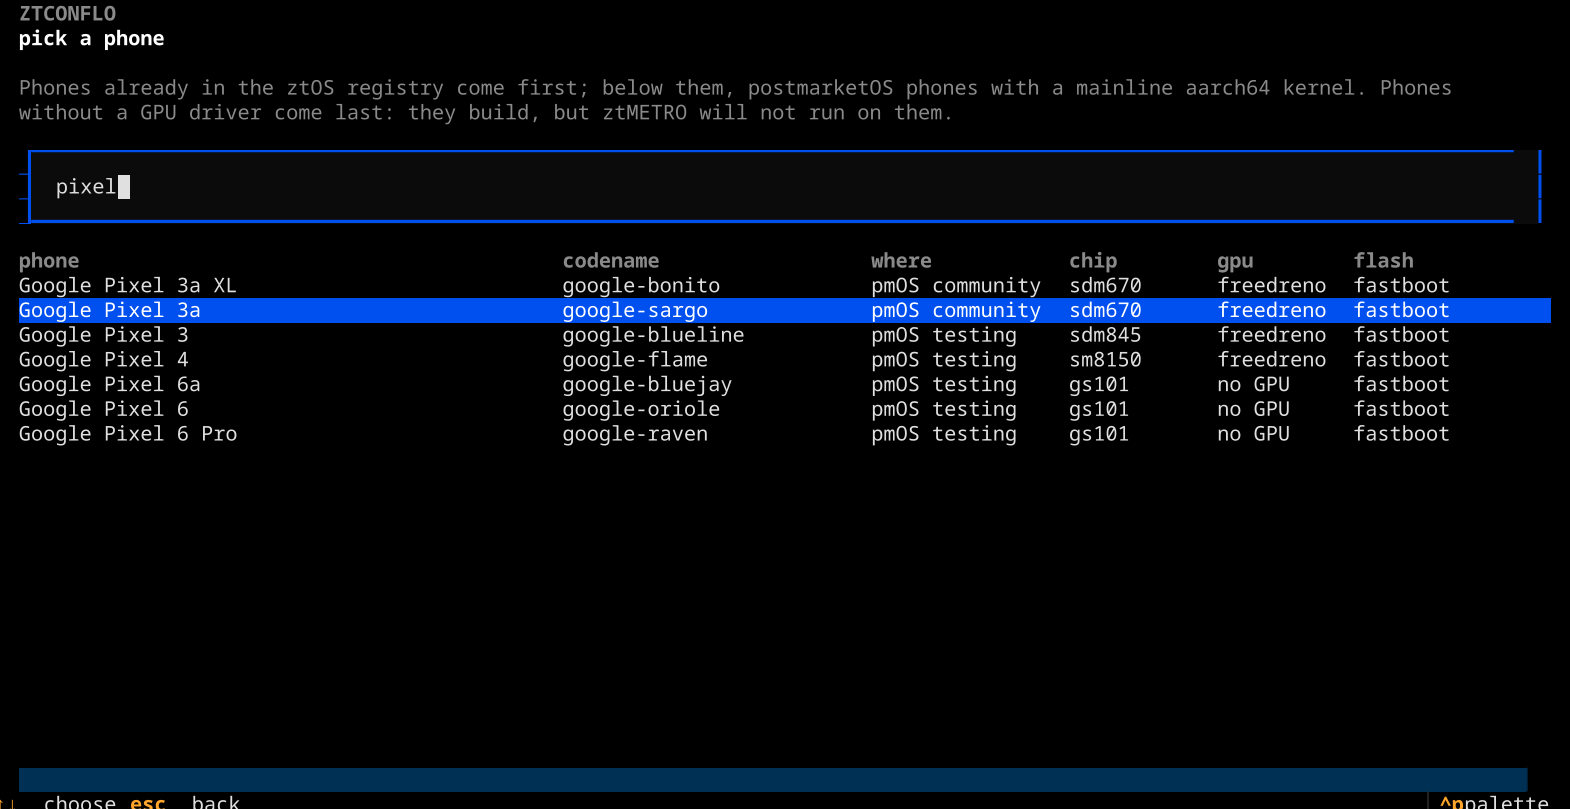
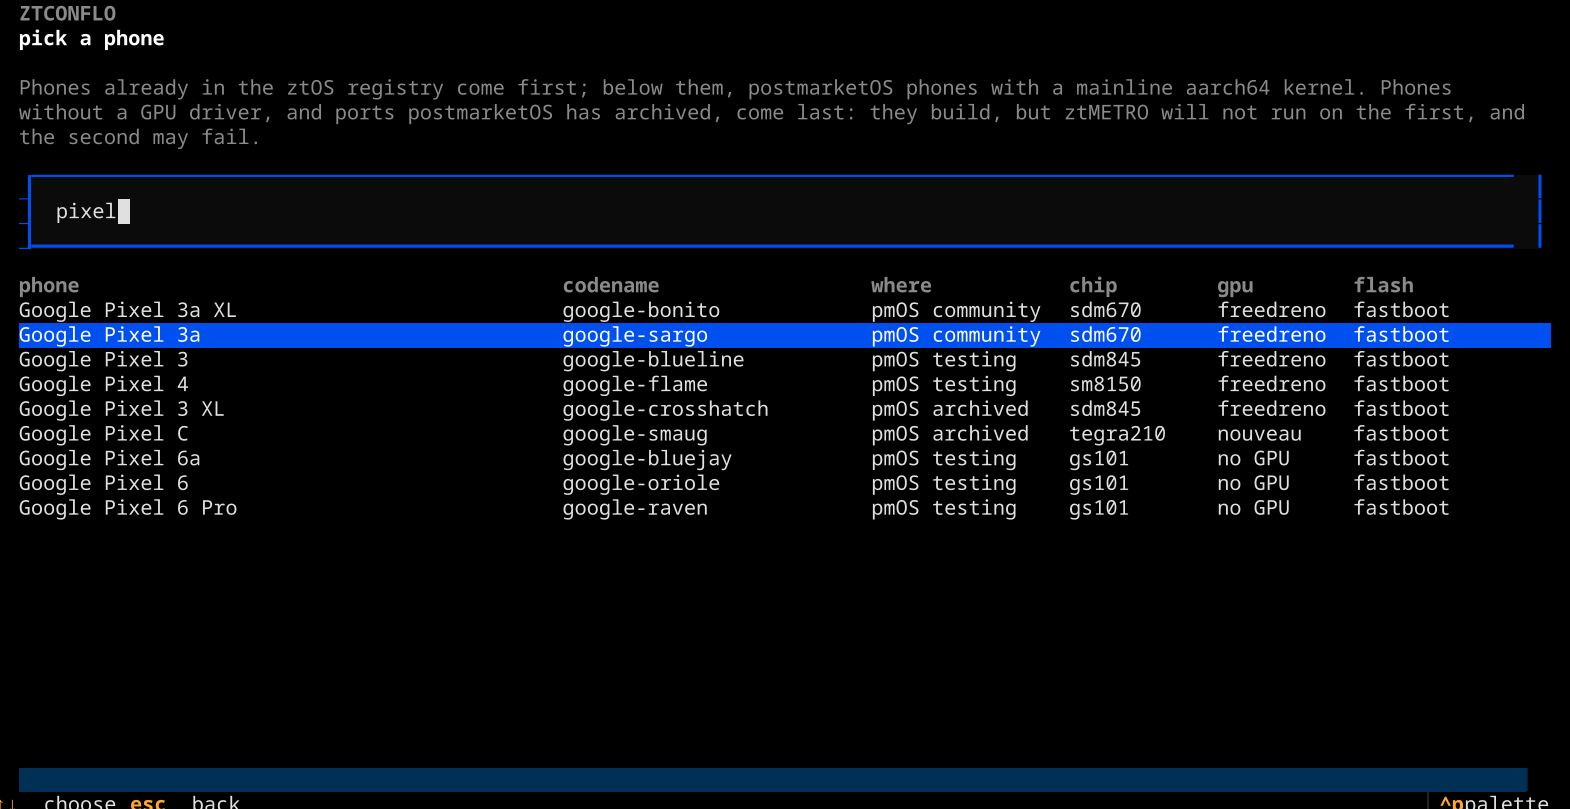
List archived phones that still run a mainline kernel, with a warning
A port postmarketOS has archived is no longer a dead end by itself: if its
kernel is mainline it is eligible, listed after the maintained phones, and
every place that warns about a missing GPU driver (lookup, candidates,
build, flash, the TUI) now also says the port is no longer maintained.
Archived phones with a vendor kernel, such as the Exynos Galaxy S9, are
still rejected. 135 phones are eligible instead of 64. Wiki, README
and screenshots updated.

diff --git a/docs/index.html b/docs/index.html
@@ -241,6 +241,7 @@
         <ul class="sub-nav">
           <li><a href="#eligibility">Eligibility</a></li>
           <li><a href="#gpu">GPU acceleration</a></li>
+          <li><a href="#archived">Archived ports</a></li>
         </ul>
       </li>
       <li><a href="#registry">The device registry</a></li>
@@ -305,8 +306,9 @@ oneplus-enchilada: OnePlus 6
           <figure class="wide"><a href="img/welcome.png"><img src="img/welcome.png" width="1570" height="809" alt="The welcome screen checks the computer for everything a build needs." loading="lazy"></a><figcaption>The welcome screen checks the computer for everything a build needs.</figcaption></figure>
           <figure class=""><a href="img/phones.png"><img src="img/phones.png" width="1570" height="809" alt="Picking a phone: type to filter, arrow keys to choose, enter to open." loading="lazy"></a><figcaption>Picking a phone: type to filter, arrow keys to choose, enter to open.</figcaption></figure>
           <figure class=""><a href="img/phone.png"><img src="img/phone.png" width="1570" height="809" alt="A phone's page, with dry run, build, flash and the checklist." loading="lazy"></a><figcaption>A phone's page, with dry run, build, flash and the checklist.</figcaption></figure>
-          <figure class=""><a href="img/dryrun.png"><img src="img/dryrun.png" width="1570" height="809" alt="A dry run: every step ticked off, and every command it would run." loading="lazy"></a><figcaption>A dry run: every step ticked off, and every command it would run.</figcaption></figure>
           <figure class=""><a href="img/nogpu.png"><img src="img/nogpu.png" width="1570" height="809" alt="Building a phone without a GPU driver asks first." loading="lazy"></a><figcaption>Building a phone without a GPU driver asks first.</figcaption></figure>
+          <figure class=""><a href="img/archived.png"><img src="img/archived.png" width="1570" height="809" alt="An archived port, the Redmi Note 4X, found by typing "note 4": it builds, but warns first." loading="lazy"></a><figcaption>An archived port, the Redmi Note 4X, found by typing "note 4": it builds, but warns first.</figcaption></figure>
+          <figure class="wide"><a href="img/dryrun.png"><img src="img/dryrun.png" width="1570" height="809" alt="A dry run: every step ticked off, and every command it would run." loading="lazy"></a><figcaption>A dry run: every step ticked off, and every command it would run.</figcaption></figure>
         </div>
       </div>
     </div>
@@ -433,13 +435,13 @@ ztconflo build oneplus-enchilada --dry-run  <span class="c"># every command, not
           <table>
             <thead><tr><th>Rule</th><th>Why</th></tr></thead>
             <tbody>
-              <tr><td>Category is <code>main</code>, <code>community</code> or <code>testing</code></td><td><code>downstream</code> ports use vendor kernels; <code>archived</code> ones are no longer maintained.</td></tr>
+              <tr><td>Category is <code>main</code>, <code>community</code>, <code>testing</code> or <code>archived</code></td><td><code>downstream</code> ports use vendor kernels, so they are rejected. <code>archived</code> ports are no longer maintained, but many still use a mainline kernel: they are eligible, with a warning.</td></tr>
               <tr><td>Architecture is <code>aarch64</code></td><td>32-bit <code>armv7</code> phones are out of scope for version 1.</td></tr>
               <tr><td>The kernel is mainline</td><td>A vendor kernel has no Mesa GPU driver, so ztMETRO can't draw on it.</td></tr>
             </tbody>
           </table>
         </div>
-        <p>Today's pmaports has 64 eligible phones and tablets that ztConflo can flash, led by Snapdragon phones such as the OnePlus 6 and 6T, the Pixel 3a, the Poco F1 and the Fairphone 4.</p>
+        <p>Today's pmaports has 135 eligible phones and tablets that ztConflo can flash. 64 are maintained by postmarketOS, led by Snapdragon phones such as the OnePlus 6 and 6T, the Pixel 3a, the Poco F1 and the Fairphone 4. The other 71 are archived ports, such as the Redmi Note 4X, the Mi A1 and the OnePlus 3 and 5.</p>
 
         <h3 id="gpu">GPU acceleration</h3>
         <p>ztMETRO draws everything with OpenGL ES, so it needs a GPU that Mesa drives. ztConflo reads the system on a chip from the device tree name and looks it up in a small table: freedreno for Qualcomm Adreno, panfrost and panthor for Mali, lima for older Mali, etnaviv for Vivante.</p>
@@ -448,7 +450,15 @@ ztconflo build oneplus-enchilada --dry-run  <span class="c"># every command, not
           <b>The warning</b>
           Unable to detect a Graphics Accelerator for the selected device, the Metro Shell will not start or work properly !
         </div>
-        <p>13 of the 64 eligible phones are in this group, the Pixel 6 among them.</p>
+        <p>20 of the 135 eligible phones are in this group, the Pixel 6 among them.</p>
+
+        <h3 id="archived">Archived ports</h3>
+        <p>postmarketOS archives a port when no one maintains or tests it any more. That says nothing about the kernel: 71 archived phones still use a mainline one, so ztConflo lists them last, builds them, and warns first, in the same places as the GPU warning:</p>
+        <div class="alert" role="note">
+          <b>The warning</b>
+          postmarketOS no longer maintains this phone's port: it is archived, so it may not build or boot, and it has had no recent testing.
+        </div>
+        <p>Archived phones with a vendor kernel, such as the Galaxy S9 (Exynos), are still rejected. That is where the <i>downstream kernel</i> rule bites. The Snapdragon S9, <code>samsung-starqltechn</code>, is a maintained port and is eligible.</p>
       </div>
     </div>
   </section>
@@ -569,7 +579,7 @@ rootfs_target = "userdata"</pre>
             <tbody>
               <tr><td class="num">0</td><td>Success</td></tr>
               <tr><td class="num">1</td><td>Not found in the registry or pmaports</td></tr>
-              <tr><td class="num">2</td><td>Found but not eligible: downstream kernel, archived port or 32-bit</td></tr>
+              <tr><td class="num">2</td><td>Found but not eligible: a downstream (vendor) kernel, a downstream port or a 32-bit phone</td></tr>
               <tr><td class="num">3</td><td>Build failed</td></tr>
               <tr><td class="num">4</td><td>Hash mismatch on a <code>tested</code> entry</td></tr>
               <tr><td class="num">5</td><td>Checklist failed during <code>promote</code></td></tr>

diff --git a/ztconflo/tui.py b/ztconflo/tui.py
@@ -19,7 +19,7 @@ from . import Exit
 from .config import PMAPORTS_URL, Settings
 from .pmos import Pmaports
 from .registry import Registry
-from .resolve import GPU_WARNING, candidates, resolve
+from .resolve import GPU_WARNING, candidates, entry_warnings, resolve
 from .runner import Runner
 
 WORDMARK = r"""
@@ -189,8 +189,8 @@ class Phones(Screen):
         yield Static("ZTCONFLO", classes="caps")
         yield Static("the registry" if self.registry_only else "pick a phone", classes="title")
         yield Static("Phones already in the ztOS registry come first; below them, postmarketOS phones with a "
-                     "mainline aarch64 kernel. Phones without a GPU driver come last: they build, but ztMETRO "
-                     "will not run on them." if not self.registry_only
+                     "mainline aarch64 kernel. Phones without a GPU driver, and ports postmarketOS has archived, "
+                     "come last: they build, but ztMETRO will not run on the first, and the second may fail." if not self.registry_only
                      else "Every phone ztOS knows, and how far it has got.", classes="lede")
         yield Input(placeholder="type to search: a name, a codename, a chip   ·   ↑↓ to choose   ·   enter to open", id="filter")
         yield LoadingIndicator()
@@ -216,7 +216,8 @@ class Phones(Screen):
             if not pm.exists():
                 self.app.call_from_thread(self.notify, "fetching pmaports, once (a minute or two)…")
                 pm.ensure(PMAPORTS_URL)
-            found = sorted(candidates(reg, pm), key=lambda dv: (not dv[1].accelerated, dv[0].category != "community"))
+            found = sorted(candidates(reg, pm), key=lambda dv: (not dv[1].accelerated, dv[1].unmaintained,
+                                                                  dv[0].category != "community"))
             for d, v in found:
                 if d.info.get("chassis") in ("handset", "tablet") and \
                         d.info.get("flash_method") in ("fastboot", "heimdall-bootimg", "heimdall-isorec"):
@@ -287,7 +288,7 @@ class Phone(Screen):
         super().__init__()
         self.codename = codename
         self.res = None
-        self.accelerated = True
+        self.warnings: list[str] = []
 
     def compose(self) -> ComposeResult:
         yield Static("ZTCONFLO", classes="caps")
@@ -315,7 +316,7 @@ class Phone(Screen):
         if self.res.source == "registry":
             e = self.res.entry
             self.query_one("#name", Static).update(e["device"]["name"].lower())
-            self.accelerated = bool(e.get("kernel", {}).get("gpu_driver", "x"))
+            self.warnings = entry_warnings(e)
             facts += [("from", "the ztOS registry"), ("status", e.status), ("origin", e.origin),
                       ("chip", f"{e['kernel'].get('soc', '?')} · Mesa {e['kernel'].get('gpu_driver', '?')}"),
                       ("kernel", e.get("source", {}).get("pmos", {}).get("kernel_pkg", "ztOS package")),
@@ -323,7 +324,7 @@ class Phone(Screen):
             verdict = "[#60a917 bold]in the registry: ready to build[/]"
         else:
             d, v = self.res.device, self.res.verdict
-            self.accelerated = v.accelerated
+            self.warnings = v.warnings
             self.query_one("#name", Static).update(d.info.get("name", d.codename).lower())
             facts += [("from", f"postmarketOS ({d.category})"), ("codename", d.codename),
                       ("chip", f"{v.soc or '?'} · " + (f"Mesa {v.driver}" if v.accelerated else "no GPU driver")),
@@ -335,8 +336,8 @@ class Phone(Screen):
             facts.append(("built", str(out)))
         self.query_one("#facts", Static).update(
             "\n".join(f"[#8a8a8a]{k:<12}[/]{v}" for k, v in facts))
-        if not self.accelerated:
-            verdict += f"\n\n[#e51400 bold]⚠ {GPU_WARNING}[/]"
+        for w in self.warnings:
+            verdict += f"\n\n[#e51400 bold]⚠ {w}[/]"
         self.query_one("#verdict", Static).update(verdict)
         self.query_one("#flash", Button).disabled = not (out / "flash.sh").is_file() or self.res.entry is None
         self.query_one("#promote", Button).disabled = self.res.entry is None
@@ -352,12 +353,14 @@ class Phone(Screen):
     def action_build(self, dry: bool) -> None:
         if self.res is None:
             return
-        if not dry and not self.accelerated:
+        if not dry and self.warnings:
             def anyway(yes: bool) -> None:
                 if yes:
                     self._start_build(dry)
-            self.app.push_screen(Ask(f"⚠ {GPU_WARNING}\n\nThe image still builds and installs, but the phone "
-                                     "will not reach ztMETRO.", yes="build anyway", no="cancel"), anyway)
+            closing = ("The image still builds and installs, but the phone will not reach ztMETRO."
+                       if GPU_WARNING in self.warnings else "You can still try: it may fail part way.")
+            self.app.push_screen(Ask("\n\n".join(f"⚠ {w}" for w in self.warnings) + "\n\n" + closing,
+                                     yes="build anyway", no="cancel"), anyway)
             return
         self._start_build(dry)
 
@@ -379,7 +382,7 @@ class Phone(Screen):
         if e is None:
             return
         lines = "\n".join(f"  {part:<16} ← {img}" for img, part in targets(e["boot"]))
-        warn = "" if e.get("kernel", {}).get("gpu_driver", "x") else f"⚠ {GPU_WARNING}\n\n"
+        warn = "".join(f"⚠ {w}\n\n" for w in entry_warnings(e))
         text = (f"{warn}Flash {e['device']['name']} with {e['boot']['flash_method']}?\n\n{lines}\n\n"
                 f"This erases everything on those partitions, including all data on "
                 f"{e['boot'].get('rootfs_target')}. Type the codename to go on.")

diff --git a/ztconflo/cli.py b/ztconflo/cli.py
@@ -9,7 +9,7 @@ from . import Exit, __version__
 from .config import PMAPORTS_URL, USB_HOST, Settings
 from .pmos import Pmaports
 from .registry import Registry
-from .resolve import GPU_WARNING, candidates, resolve
+from .resolve import candidates, entry_warnings, resolution_warnings, resolve
 from .runner import Runner
 
 
@@ -61,6 +61,8 @@ def cmd_lookup(args, s: Settings) -> int:
         print(f"  from:    ztOS registry ({e.path})")
         print(f"  status:  {e.status}   origin: {e.origin}")
         print(f"  flash:   {e['boot']['flash_method']} -> {e['boot'].get('rootfs_target')}")
+        for w in entry_warnings(e):
+            print(f"\n  WARNING: {w}")
         return 0
     d, v = res.device, res.verdict
     print(f"{d.codename}: {d.info.get('name', '?')}")
@@ -70,8 +72,8 @@ def cmd_lookup(args, s: Settings) -> int:
     print(f"  kernel:  {v.kernel_pkg} (mainline)")
     print(f"  flash:   {d.info.get('flash_method', '?')}")
     print("  eligible: yes")
-    if not v.accelerated:
-        print(f"\n  WARNING: {GPU_WARNING}")
+    for w in v.warnings:
+        print(f"\n  WARNING: {w}")
     return 0
 
 
@@ -91,13 +93,15 @@ def cmd_candidates(args, s: Settings) -> int:
     if not args.all:        # phones and tablets that ztConflo can flash
         found = [(d, v) for d, v in found if d.info.get("chassis") in ("handset", "tablet")
                  and d.info.get("flash_method") in ("fastboot", "heimdall-bootimg", "heimdall-isorec")]
-    for d, v in sorted(found, key=lambda x: (not x[1].accelerated, x[0].category != "community",
-                                             x[1].driver or "", x[0].codename)):
+    for d, v in sorted(found, key=lambda x: (not x[1].accelerated, x[1].unmaintained,
+                                             x[0].category != "community", x[1].driver or "", x[0].codename)):
         print(f"{d.codename:<34} {d.category:<10} {v.soc or '?':<12} {v.driver or 'NO GPU':<10} "
               f"{d.info.get('flash_method', '?'):<17} {d.info.get('name', '')}")
     unaccelerated = sum(not v.accelerated for _, v in found)
+    archived = sum(v.unmaintained for _, v in found)
     print(f"{len(found)} eligible phones without a registry entry"
-          + (f"; {unaccelerated} without a GPU driver (ztMETRO will not run on those)" if unaccelerated else ""),
+          + (f"; {unaccelerated} without a GPU driver (ztMETRO will not run on those)" if unaccelerated else "")
+          + (f"; {archived} archived by postmarketOS (no longer maintained)" if archived else ""),
           file=sys.stderr)
     return 0
 
@@ -108,8 +112,8 @@ def cmd_build(args, s: Settings) -> int:
     if reg.find(args.codename) is None:
         _pmaports(s)
     res = resolve(args.codename, reg, Pmaports(s.pmaports))
-    if not _accelerated(res):
-        print(f"WARNING: {GPU_WARNING}", file=sys.stderr)
+    for w in resolution_warnings(res):
+        print(f"WARNING: {w}", file=sys.stderr)
     out = build(res, s, reg, Runner(dry_run=s.dry_run))
     if s.dry_run:
         print("(dry run: nothing was built)")
@@ -119,12 +123,6 @@ def cmd_build(args, s: Settings) -> int:
             print(f"  {out / f}")
         print(f"flash with: ztconflo flash {args.codename}   (or read {out / 'flash.sh'})")
     return 0
-
-
-def _accelerated(res) -> bool:
-    if res.source == "registry":
-        return bool(res.entry.get("kernel", {}).get("gpu_driver", "x"))
-    return res.verdict.accelerated
 
 
 def _entry(codename: str, s: Settings):

diff --git a/ztconflo/resolve.py b/ztconflo/resolve.py
@@ -75,6 +75,8 @@ def gpu_driver(soc: str) -> tuple[bool, str | None]:
 
 GPU_WARNING = ("Unable to detect a Graphics Accelerator for the selected device, "
                "the Metro Shell will not start or work properly !")
+ARCHIVED_WARNING = ("postmarketOS no longer maintains this phone's port: it is archived, so it may not "
+                    "build or boot, and it has had no recent testing.")
 
 
 @dataclass
@@ -85,6 +87,11 @@ class Verdict:
     soc: str = ""
     driver: str | None = None
     kernel_pkg: str = ""
+    unmaintained: bool = False    # an archived port: eligible, with a warning
+
+    @property
+    def warnings(self) -> list[str]:
+        return [w for w, on in ((GPU_WARNING, not self.accelerated), (ARCHIVED_WARNING, self.unmaintained)) if on]
 
     @property
     def accelerated(self) -> bool:
@@ -95,8 +102,11 @@ class Verdict:
 
 def eligibility(dev: PmDevice, pmaports: Pmaports) -> Verdict:
     soc = soc_of(dev)
-    if dev.category not in ACCEPTED:
-        return Verdict(False, f"category '{dev.category}' is not main, community or testing", True, soc)
+    # downstream ports use vendor kernels; archived ones are no longer maintained
+    # but may still use a mainline kernel, so they go on to the kernel check
+    if dev.category not in ACCEPTED and dev.category != "archived":
+        return Verdict(False, f"category '{dev.category}' is not main, community, testing or archived", True, soc)
+    unmaintained = dev.category == "archived"
     if dev.arch != "aarch64":
         return Verdict(False, f"architecture '{dev.arch}' is not aarch64 (32-bit phones are out of scope for v1)",
                        True, soc)
@@ -111,7 +121,7 @@ def eligibility(dev: PmDevice, pmaports: Pmaports) -> Verdict:
         return Verdict(False, f"kernel {kernel} is a downstream (vendor) kernel", True, soc, kernel_pkg=kernel)
     # no GPU driver does not stop a build: the phone is flagged, and warned about
     known, driver = gpu_driver(soc)
-    return Verdict(True, "eligible", False, soc, driver, kernel)
+    return Verdict(True, "eligible", False, soc, driver, kernel, unmaintained)
 
 
 def _preferred_kernel(kernels: list[tuple[str, str]]) -> str:
@@ -149,6 +159,23 @@ def resolve(codename: str, registry: Registry, pmaports: Pmaports) -> Resolution
         raise Exit(Exit.NOT_ELIGIBLE, f"{dev.codename} ({dev.info.get('name', '?')}) is not eligible: "
                                       f"{verdict.reason}. This is {kind}.")
     return Resolution("pmos", device=dev, verdict=verdict)
+
+
+def entry_warnings(entry) -> list[str]:
+    """What to warn about for a registry entry (also a draft one): no GPU driver,
+    or a port postmarketOS has archived."""
+    out = []
+    if not entry.get("kernel", {}).get("gpu_driver", "x"):
+        out.append(GPU_WARNING)
+    if entry.get("source", {}).get("pmos", {}).get("category") == "archived":
+        out.append(ARCHIVED_WARNING)
+    return out
+
+
+def resolution_warnings(res: "Resolution") -> list[str]:
+    if res.source == "registry":
+        return entry_warnings(res.entry)
+    return res.verdict.warnings
 
 
 def candidates(registry: Registry, pmaports: Pmaports) -> list[tuple[PmDevice, Verdict]]:

diff --git a/tests/test_resolve.py b/tests/test_resolve.py
@@ -52,7 +52,7 @@ def test_heimdall_samsung_is_eligible(pm):
 
 @pytest.mark.parametrize("codename, words, dead_end", [
     ("amazon-sheldon", "category 'downstream'", True),
-    ("samsung-starlte", "category 'archived'", True),
+    ("samsung-starlte", "downstream (vendor) kernel", True),      # archived, and a vendor kernel
     ("asus-flo", "not aarch64", True),
     ("generic-x86_64", "not aarch64", True),
 ])
@@ -75,6 +75,48 @@ def test_no_gpu_warning_on_lookup(pm, tmp_path, capsys):
     assert GPU_WARNING in capsys.readouterr().out
     assert GPU_WARNING == ("Unable to detect a Graphics Accelerator for the selected device, "
                            "the Metro Shell will not start or work properly !")
+
+
+def test_archived_phone_with_a_mainline_kernel_is_eligible_but_flagged(pm):
+    from ztconflo.resolve import ARCHIVED_WARNING, GPU_WARNING
+    v = eligibility(pm.find("xiaomi-mido"), pm)
+    assert v.eligible and v.unmaintained and v.accelerated
+    assert (v.soc, v.driver) == ("msm8953", "freedreno")
+    assert v.warnings == [ARCHIVED_WARNING]
+    assert GPU_WARNING not in v.warnings
+
+
+def test_maintained_phones_carry_no_archived_flag(pm):
+    v = eligibility(pm.find("oneplus-enchilada"), pm)
+    assert v.eligible and not v.unmaintained and v.warnings == []
+
+
+def test_archived_and_no_gpu_gets_both_warnings():
+    from ztconflo.resolve import ARCHIVED_WARNING, GPU_WARNING, Verdict
+    v = Verdict(True, "eligible", False, "gs101", None, "linux-x", True)
+    assert v.warnings == [GPU_WARNING, ARCHIVED_WARNING]
+
+
+def test_registry_entries_warn_the_same_way(pm, empty_registry):
+    from ztconflo.resolve import ARCHIVED_WARNING, entry_warnings
+    dev = pm.find("xiaomi-mido")
+    entry = draft_entry(dev, eligibility(dev, pm), "abc", "6.18")
+    assert entry["source"]["pmos"]["category"] == "archived"
+    assert entry_warnings(entry) == [ARCHIVED_WARNING]
+    assert entry_warnings(draft_entry(pm.find("oneplus-enchilada"), eligibility(pm.find("oneplus-enchilada"), pm),
+                                      "abc", "6.18")) == []
+
+
+def test_archived_warning_on_lookup_and_candidates_last(pm, tmp_path, capsys):
+    from ztconflo.cli import main
+    from ztconflo.resolve import ARCHIVED_WARNING
+    assert main(["--pmaports", str(FIX), "--registry", str(tmp_path), "lookup", "xiaomi-mido"]) == 0
+    assert ARCHIVED_WARNING in capsys.readouterr().out
+    assert main(["--pmaports", str(FIX), "--registry", str(tmp_path), "candidates"]) == 0
+    out = capsys.readouterr()
+    lines = [l.split()[0] for l in out.out.splitlines()]
+    assert lines.index("xiaomi-mido") > lines.index("oneplus-enchilada")      # archived after maintained
+    assert "archived by postmarketOS" in out.err
 
 
 def test_multi_kernel_device_picks_a_kernel(pm):

diff --git a/ztconflo/flash.py b/ztconflo/flash.py
@@ -5,7 +5,7 @@ import subprocess
 from pathlib import Path
 
 from . import Exit
-from .resolve import GPU_WARNING
+from .resolve import entry_warnings
 
 HEADER = """#!/bin/sh
 # Generated by ztConflo for {codename} ({name}). Overwrites: {targets}.
@@ -54,8 +54,8 @@ def flash(out_dir: Path, entry: dict, ask=input, run=subprocess.run) -> None:
     print(f"Flashing {entry['device']['name']} ({entry['device']['codename']}) with {entry['boot']['flash_method']}.")
     for image, part in pairs:
         print(f"  {part:<16} <- {out_dir / image}")
-    if not entry.get("kernel", {}).get("gpu_driver", "x"):
-        print(f"\nWARNING: {GPU_WARNING}\n")
+    for w in entry_warnings(entry):
+        print(f"\nWARNING: {w}\n")
     print("This erases everything on those partitions, including your data on "
           f"{entry['boot'].get('rootfs_target', 'userdata')}.")
     if ask("Type the codename to continue: ").strip() != entry["device"]["codename"]:

diff --git a/ztconflo/build.py b/ztconflo/build.py
@@ -9,7 +9,7 @@ from pathlib import Path
 from . import Exit, flash, images, pmos, rootfs
 from .config import PMAPORTS_URL, Settings
 from .registry import Entry, Registry
-from .resolve import GPU_WARNING, Resolution, draft_entry
+from .resolve import Resolution, draft_entry, entry_warnings
 from .runner import Runner
 
 
@@ -116,8 +116,8 @@ def verify(run: Runner, entry: Entry, art: dict, tree: Path, registry: Registry)
 def build(res: Resolution, settings: Settings, registry: Registry, run: Runner) -> Path:
     start = time.time()
     entry = entry_for(res, settings, registry, run)
-    if not entry.get("kernel", {}).get("gpu_driver"):
-        run.log(f"!!! {GPU_WARNING}")
+    for w in entry_warnings(entry):
+        run.log(f"!!! {w}")
     codename = entry.codename
     out = settings.out / codename
     work = settings.work / codename
